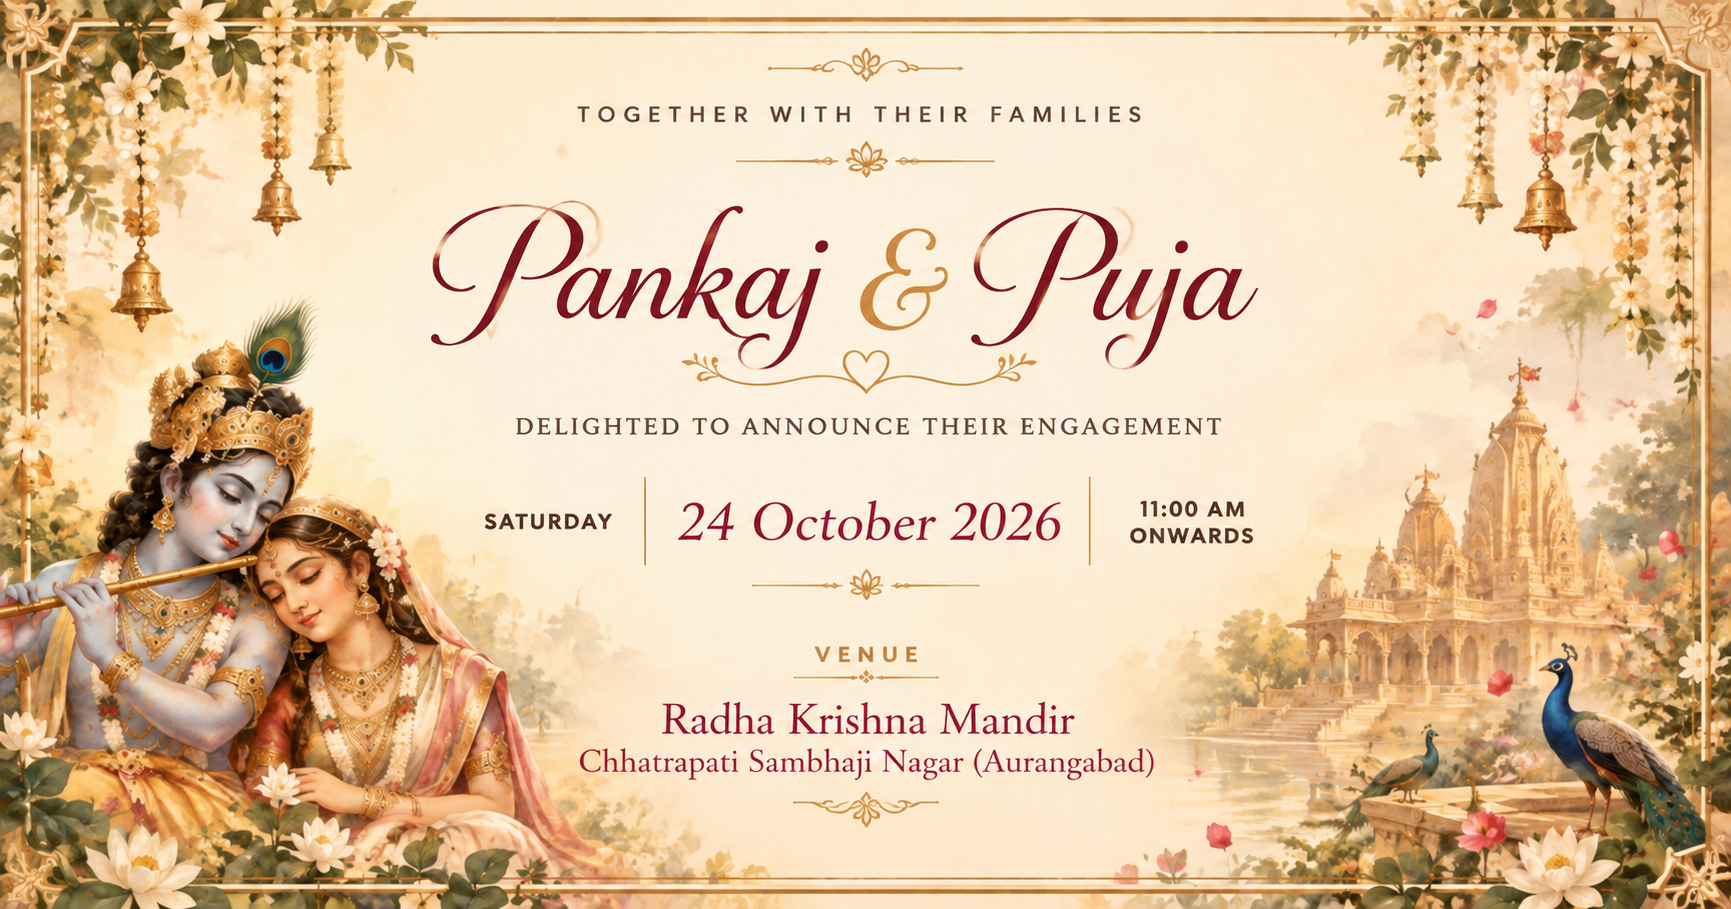
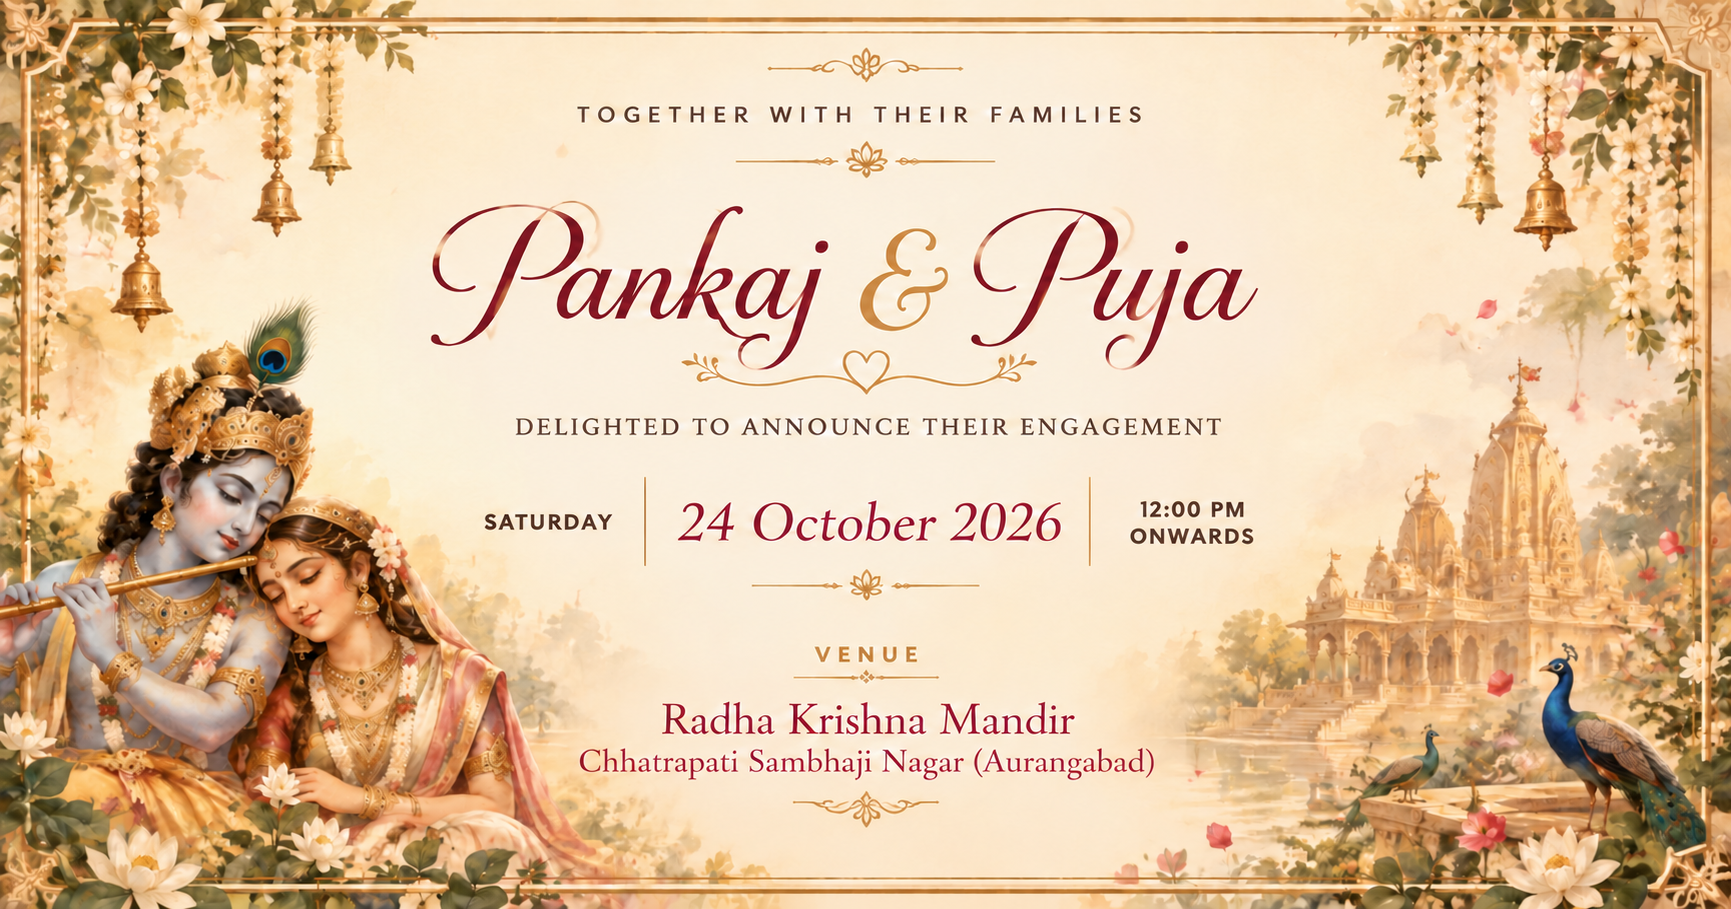
Update invitation time to noon

diff --git a/app/layout.js b/app/layout.js
@@ -4,10 +4,10 @@ import { Analytics } from "@vercel/analytics/next";
 export const metadata = {
   metadataBase: new URL("https://pankaj-puja-invitation.vercel.app"),
   title: "Pankaj & Puja — Engagement Invitation",
-  description: "Together with their families, delighted to announce their engagement. Friday, 24 October 2026, 11:00 AM onwards at Radha Krishna Mandir, Chhatrapati Sambhaji Nagar(Aurangabad).",
+  description: "Together with their families, delighted to announce their engagement. Saturday, 24 October 2026, 12:00 PM onwards at Radha Krishna Mandir, Chhatrapati Sambhaji Nagar(Aurangabad).",
   openGraph: {
     title: "Pankaj & Puja — Engagement Invitation",
-    description: "You're invited! Friday, 24 October 2026, 11:00 AM onwards at Radha Krishna Mandir, Chhatrapati Sambhaji Nagar(Aurangabad).",
+    description: "You're invited! Saturday, 24 October 2026, 12:00 PM onwards at Radha Krishna Mandir, Chhatrapati Sambhaji Nagar(Aurangabad).",
     url: "https://pankaj-puja-invitation.vercel.app",
     siteName: "Pankaj & Puja Engagement",
     images: [
@@ -25,7 +25,7 @@ export const metadata = {
   twitter: {
     card: "summary_large_image",
     title: "Pankaj & Puja — Engagement Invitation",
-    description: "You're invited! Saturday, 24 October 2026, 11:00 AM onwards.",
+    description: "You're invited! Saturday, 24 October 2026, 12:00 PM onwards.",
     images: ["/invitation-assets/og-preview.png"]
   }
 };

diff --git a/components/Hero.jsx b/components/Hero.jsx
@@ -48,7 +48,7 @@ export default function Hero({
             <motion.div variants={detailReveal} className="grid grid-cols-3 items-center gap-1 text-ink sm:gap-3">
               <p className="text-[7px] font-bold uppercase tracking-wider sm:text-xs">Saturday</p>
               <p className="border-x border-[#b99161]/60 px-1 font-display text-sm leading-tight text-[#8f3b55] sm:px-2 sm:text-2xl"><span className="block text-2xl sm:text-6xl">24</span>October<br />2026</p>
-              <p className="text-[7px] font-bold uppercase leading-4 tracking-wider sm:text-xs">11:00 AM<br />Onwards</p>
+              <p className="text-[7px] font-bold uppercase leading-4 tracking-wider sm:text-xs">12:00 PM<br />Onwards</p>
             </motion.div>
             <motion.p variants={detailReveal} className="mt-1.5 text-[10px] leading-4 text-ink/80 sm:mt-7 sm:text-sm sm:leading-7">Your presence will make this occasion even more special.</motion.p>
             <motion.p variants={detailReveal} className="mt-1 text-[9px] font-bold uppercase tracking-[0.18em] text-[#a57548] sm:mt-5 sm:text-xs">Venue</motion.p>

diff --git a/components/Countdown.jsx b/components/Countdown.jsx
@@ -3,7 +3,7 @@
 import { useEffect, useState } from "react";
 import { motion } from "framer-motion";
 
-const celebrationDate = new Date("2026-10-24T11:00:00+05:30").getTime();
+const celebrationDate = new Date("2026-10-24T12:00:00+05:30").getTime();
 
 function getTimeLeft() {
   const difference = celebrationDate - Date.now();
